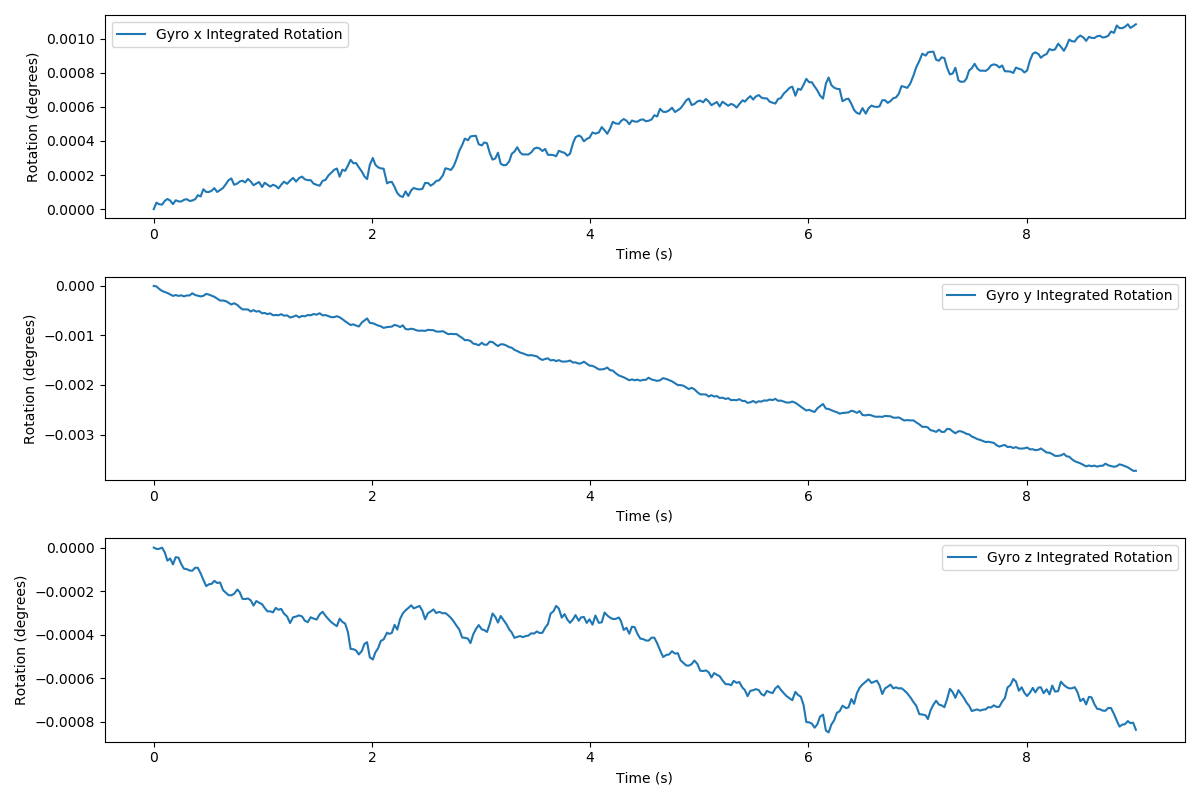
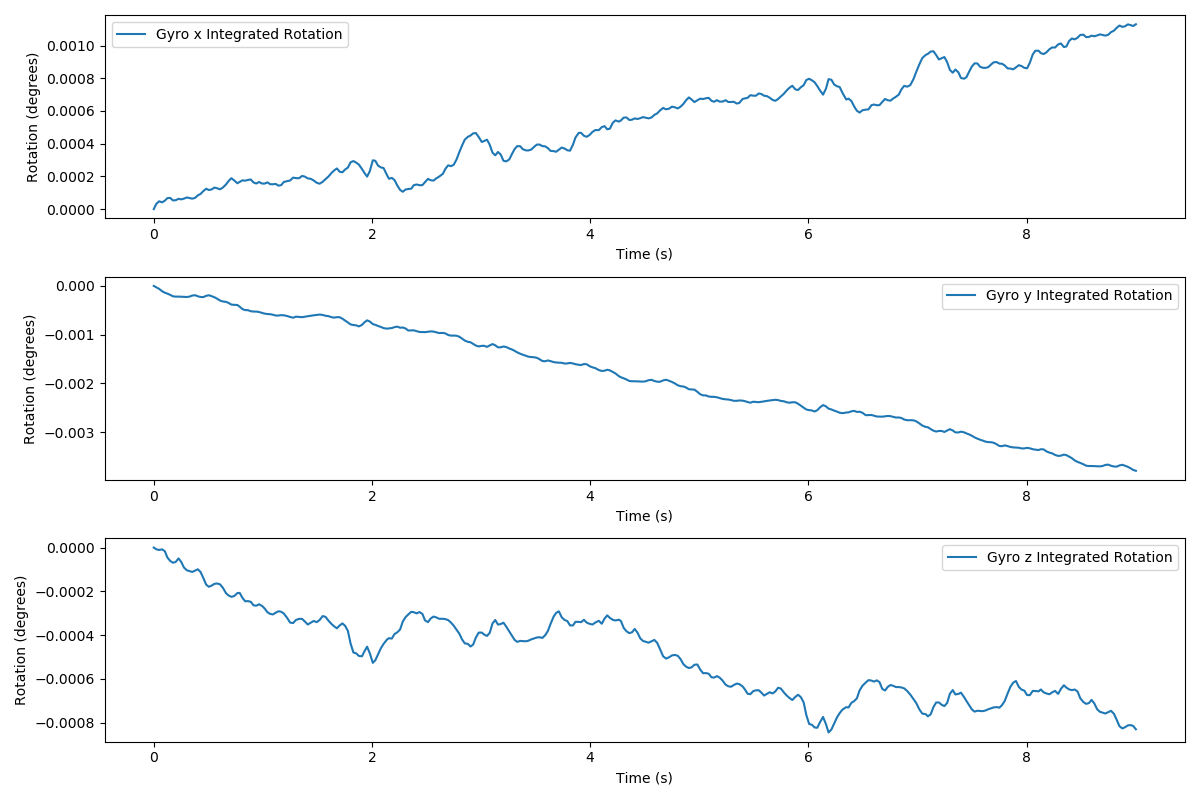
Add dead reckoning plotting code

diff --git a/imu/analysis/deadReckoning.py b/imu/analysis/deadReckoning.py
@@ -5,6 +5,7 @@ import os
 import numpy as np
 import matplotlib.pyplot as plt
 from scipy.optimize import least_squares
+from scipy.integrate import cumulative_trapezoid
 
 
 # SELECT: 
@@ -178,11 +179,21 @@ def plot_magnetic_components(data, plot_dir='.', figsize=(12, 6)):
 
     # Setup for the "ideal" magnetic field model
     N = len(data)
-    field_strength = 20509e-9  # Tesla
-    angle = np.linspace(-np.pi, np.pi, N)
-    x_mag = field_strength * np.sin(angle)
-    y_mag = field_strength * np.cos(angle)
-    X_mag = np.array([x_mag, y_mag])
+    # CIRCLE:
+    if "CIRCLE" in SCENARIO:
+        field_strength = 20509e-9  # Tesla
+        angle = np.linspace(-np.pi, np.pi, N)
+        x_mag = field_strength * np.sin(angle)
+        y_mag = field_strength * np.cos(angle)
+        X_mag = np.array([x_mag, y_mag])
+    else:
+    # TODO: SQUARE
+        field_strength = 20509e-9  # Tesla
+        angle = np.linspace(-np.pi, np.pi, N)
+        x_mag = field_strength * np.sin(angle)
+        y_mag = field_strength * np.cos(angle)
+        X_mag = np.array([x_mag, y_mag])        
+
     
     # Extract measured magnetic field from the DataFrame
     x_meas = data['mag_x'].values
@@ -225,10 +236,6 @@ def plot_magnetic_components(data, plot_dir='.', figsize=(12, 6)):
 
 # 2) Fig 2-4: Plot rotational rate and rotation (integrate once from gyro and plot magnetometer heading by calculating atan(X/Y)) vs. time. 
 # Plot all three axes on three subplots per fig.
-import numpy as np
-import matplotlib.pyplot as plt
-import os
-
 def plot_rotation_and_rotational_rate(data):
     """
     Process IMU data to plot and save:
@@ -257,16 +264,16 @@ def plot_rotation_and_rotational_rate(data):
     plt.close(fig)
 
     # Plot 2: Rotation calculated by integrating gyroscopic data over time
-    # Ensure the time differences are calculated for integration
-    data['time_diff'] = data['elapsed_time'].diff().fillna(0)
-
     # Integrate gyroscopic data to get rotation for each axis
-    gyro_rotations = {axis: np.cumsum(data[f'gyro_{axis}'] * data['time_diff']) for axis in ['x', 'y', 'z']}
     fig, axs = plt.subplots(3, 1, figsize=(12, 8))
+    gyro_integrated = {}
     for i, axis in enumerate(['x', 'y', 'z']):
-
+        # Integrate gyroscopic data to get rotation for each axis.
+        gyro_integrated[axis] = cumulative_trapezoid(data[f'gyro_{axis}'].to_numpy(), 
+                                                 data['elapsed_time'].to_numpy(), 
+                                                 initial=0)
         axs[i].plot(data['elapsed_time'].to_numpy(), 
-                    gyro_rotations[axis].to_numpy(), 
+                    gyro_integrated[axis], 
                     label=f'Gyro {axis} Integrated Rotation')
         axs[i].set_xlabel('Time (s)')
         axs[i].set_ylabel('Rotation (degrees)')
